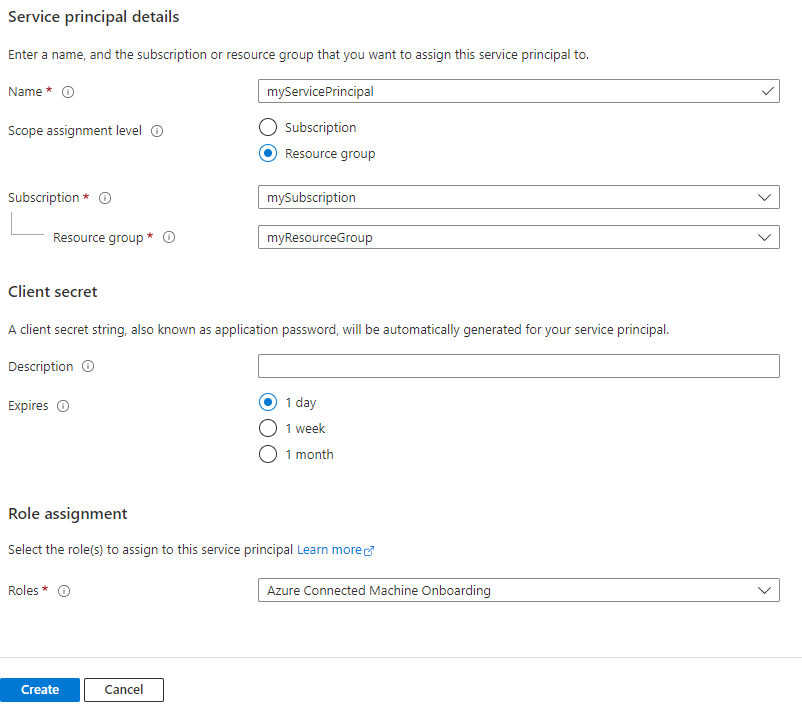
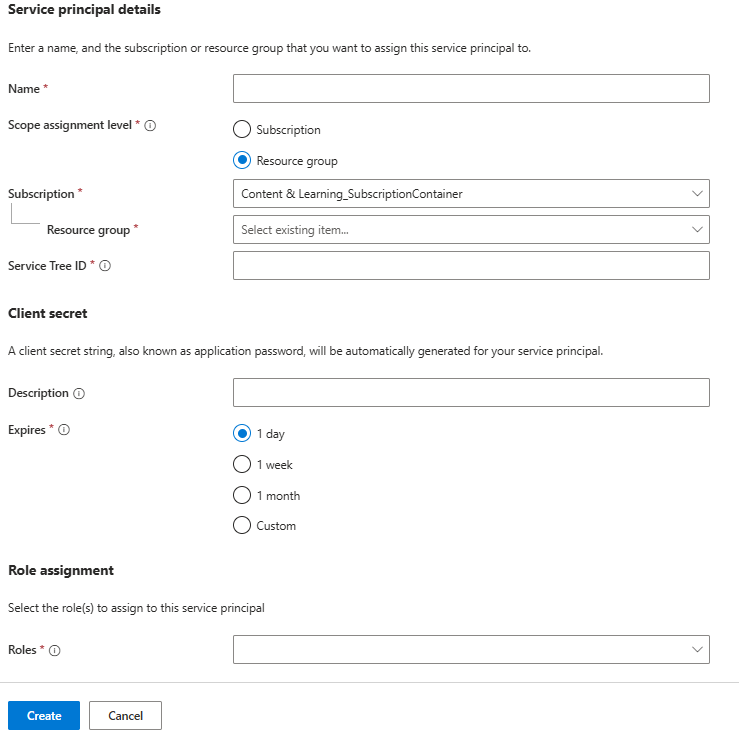
Refresh edits

diff --git a/articles/azure-arc/servers/onboard-service-principal.md b/articles/azure-arc/servers/onboard-service-principal.md
@@ -1,7 +1,7 @@
 ---
 title: Connect hybrid machines to Azure at scale
 description: In this article, you learn how to connect machines to Azure using Azure Arc-enabled servers using a service principal.
-ms.date: 11/03/2023
+ms.date: 03/17/2025
 ms.topic: conceptual
 ms.custom: devx-track-azurepowershell
 ---
@@ -47,11 +47,13 @@ You can create a service principal in the Azure portal or by using Azure PowerSh
 
 The Azure Arc service in the Azure portal provides a streamlined way to create a service principal that can be used to connect your hybrid machines to Azure.
 
-1. In the Azure portal, navigate to Azure Arc, then select **Service principals** in the left menu.
+1. At the top of the Azure portal, search for and select **Azure Arc**.
+1. In the service menu, under Management, select **Service principals**.
 1. Select **Add**.
 1. Enter a name for your service principal.
 1. Choose whether the service principal will have access to an entire subscription, or only to a specific resource group.
 1. Select the subscription (and resource group, if applicable) to which the service principal will have access.
+1. Enter a **Service Tree ID** for the service principal.
 1. In the **Client secret** section, select the duration for which your generated client secret will be in use. You can optionally enter a friendly name of your choice in the **Description** field.
 1. In the **Role assignment** section, select **Azure Connected Machine Onboarding**.
 1. Select **Create**.
@@ -104,8 +106,8 @@ Use the Azure portal to create a script that automates the agent download and in
         * **Public endpoint** 
         * **Proxy server**—Enter the proxy server IP address or the name and port number that the machine will use in the format `http://<proxyURL>:<proxyport>`.
         * **Private endpoint**—Select an existing private link scope and endpoint or create a new one.
-    1. Select **Next**.
     1. In the **Authentication** section, under the **Service principal** drop-down list, select **Arc-for-servers**.  Then select, **Next**.
+    1. Select **Next**.
 
 1. On the **Tags** page, review the default **Physical location tags** suggested and enter a value, or specify one or more **Custom tags** to support your standards.
 
